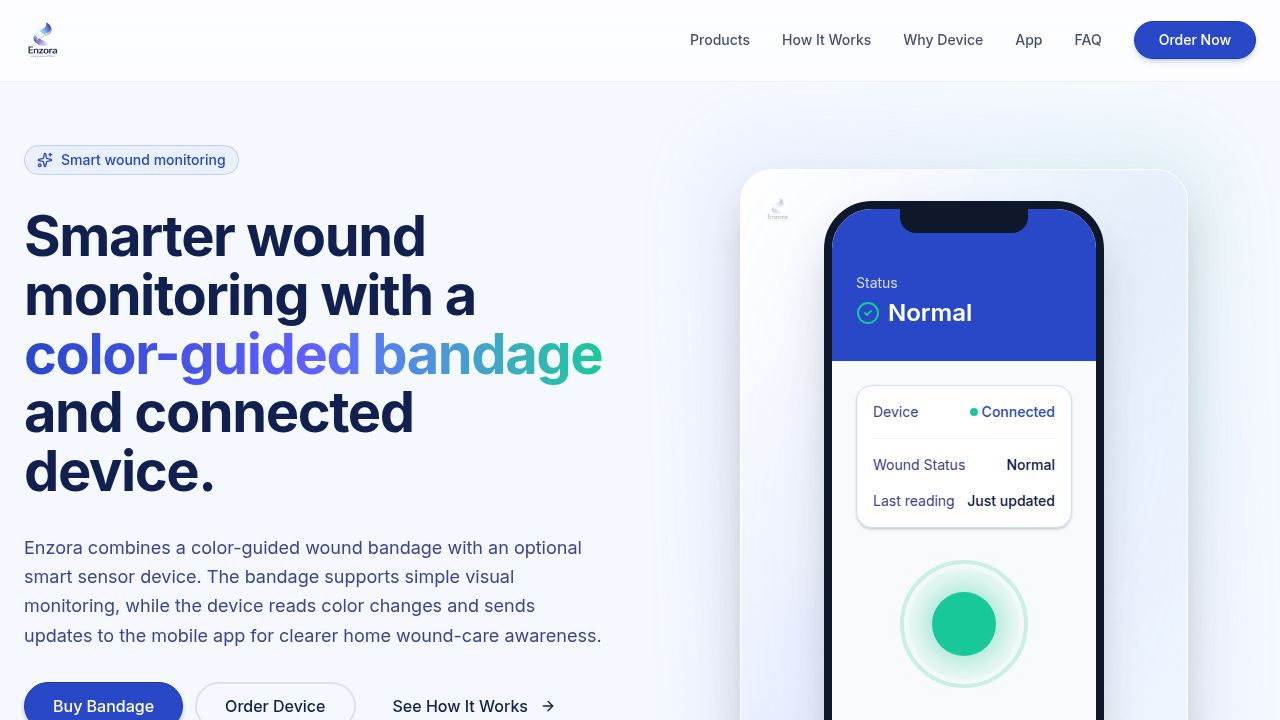
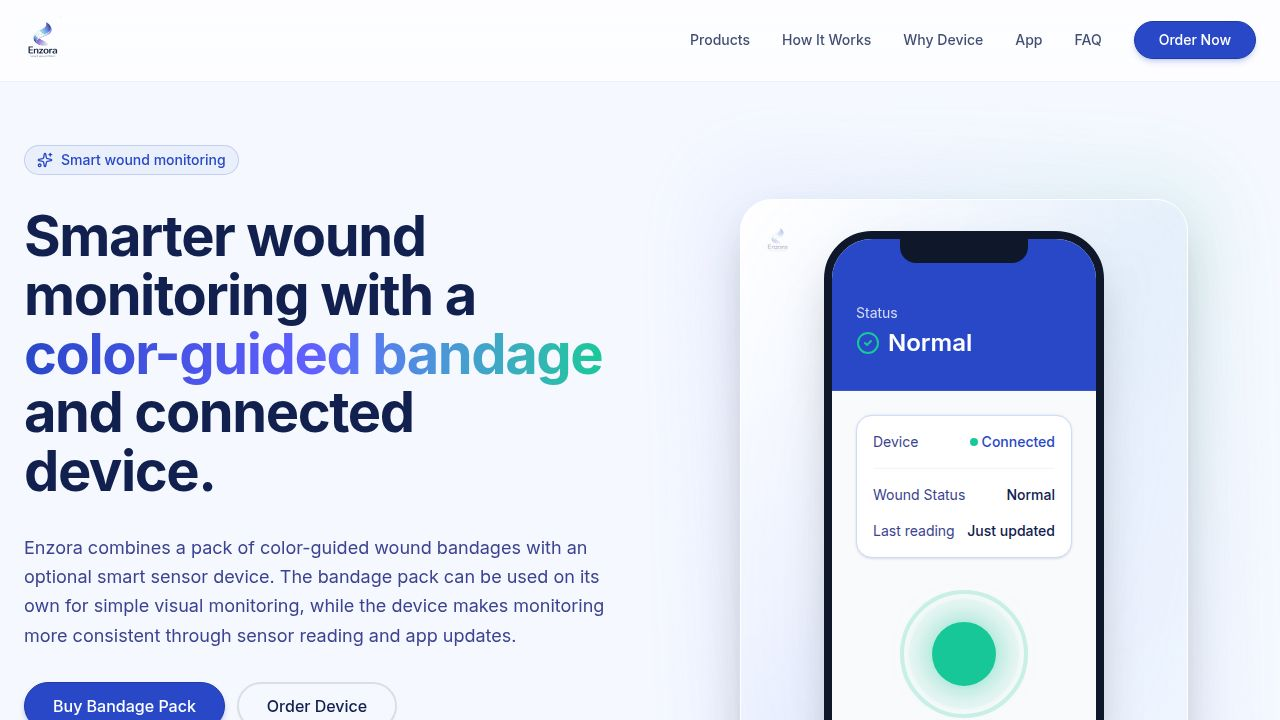
Replace landing app screenshots with custom SVG mockups sized to the phone frame
Task #11 (revision): The originals (~9:15 aspect) were getting cropped by the
landing page's phone frame (260x540, ~9:18.7 aspect) when displayed with
object-cover. Replaced them with three brand-faithful SVG mockups designed
at the exact phone-frame aspect ratio so nothing is cut off.

Changes:
- Added new SVGs in artifacts/enzora/public/ (viewBox 540x1122):
  - app-screen-normal.svg     (yellow / "Wound is Normal" / "Healing Well")
  - app-screen-watch.svg      (green / "Watch Closely" + change banner)
  - app-screen-infection.svg  (red / "Infection Alert" + Call Doctor + blue banner)
- Each mockup mirrors the user-provided reference screenshots: "Hello, Alma"
  header, lavender "Monitoring: Alma" pill, green "Device Connected" badge,
  status banner (where applicable), large status card with colored top
  border + icon + status badge + title + body + last-check + primary action,
  and bottom stat-cards row.
- Updated appScreens in artifacts/enzora/src/pages/Landing.tsx to point at
  the new .svg files; captions unchanged.
- Removed the previous .png/.jpg copies of app-screen-normal/watch/infection
  to keep the public folder clean.

Verified by screenshotting each SVG directly through the dev server — all
three render crisply and fill the phone frame edge-to-edge with no cropping.

Replit-Task-Id: df93f75e-3c24-40f7-99c9-3a5261700b2a

diff --git a/artifacts/enzora/src/pages/Landing.tsx b/artifacts/enzora/src/pages/Landing.tsx
@@ -106,9 +106,9 @@ const productOptions: ProductOption[] = [
 ];
 
 const appScreens = [
-  { src: `${import.meta.env.BASE_URL}app-screen-1.jpg`, label: "Home status screen" },
-  { src: `${import.meta.env.BASE_URL}app-screen-2.png`, label: "Color guide screen" },
-  { src: `${import.meta.env.BASE_URL}app-screen-3.png`, label: "Healing progress & alerts" },
+  { src: `${import.meta.env.BASE_URL}app-screen-normal.svg`, label: "Healing well" },
+  { src: `${import.meta.env.BASE_URL}app-screen-watch.svg`, label: "Watch closely" },
+  { src: `${import.meta.env.BASE_URL}app-screen-infection.svg`, label: "Infection alert" },
 ];
 
 const LOGO_SRC = `${import.meta.env.BASE_URL}enzora-logo.png`;